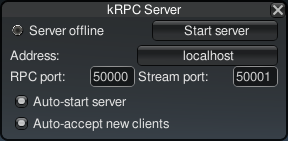
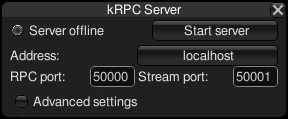
Add documentation for server performance options

diff --git a/doc/src/internals.rst b/doc/src/internals.rst
@@ -1,0 +1,41 @@
+.. _internals:
+
+Internals of kRPC
+=================
+
+.. _server-performance-settings:
+
+Server Performance Settings
+---------------------------
+
+kRPC receives RPCs, execute them and returns results when the mod's
+``FixedUpdate`` method is invoked. kRPC may execute multiple RPCs within a
+single call to ``FixedUpdate`` and this behaviour is controlled by several
+configurable settings:
+
+.. figure:: /images/getting-started/server-window-advanced.png
+   :align: right
+
+   Server window showing the advanced settings.
+
+1. **Auto-start server**: When enabled, the server will start automatically when
+   the game loads.
+2. **Auto-accept new clients**: When enabled, new client connections are
+   automatically allowed. When disabled, a pop-up is displayed asking whether
+   the new client connection should be allowed.
+3. **One RPC per update**: When enabled, the server will execute at most one RPC
+   per client per update.
+4. **Maximum time per update**: This is the maximum number of nanoseconds that
+   the server will spend processing RPCs in the call to FixedUpdte. This is used
+   to limit the time taken by the server per frame. A high value, for example
+   20000 ns, will allow the server to process many RPCs at the expense of the
+   game's framerate. A low value, for example 1000 ns, won't allow the server to
+   execute many RPCs per update, but will allow the game to run at a much higher
+   framerate.
+5. **Adaptive rate control**: If enabled, the server will automatically adjust
+   the maximum time per update parameter, so that the game runs at a minimum of
+   60 FPS.
+6. **Blocking receives**: If enabled, when the server checks for new RPCs from
+   clients, it will wait for a up to a fixed amount of time.
+7. **Receive timeout**: When blocking receives are enabled, this is the maximum
+   amount of time the server will wait for a new RPC from a client.

diff --git a/doc/src/getting-started.rst b/doc/src/getting-started.rst
@@ -52,11 +52,18 @@ configuration options are:
 2. **RPC and Stream port numbers**: These need to be set to port numbers that
    are available on your machine. In most cases, they can just be left as the
    default.
-3. **Auto-accept new clients**: When enabled, new client connections are
+
+There are also several advanced, which are hidden by default, but can be
+revealed by checking the 'Advanced settings' box:
+
+1. **Auto-start server**: When enabled, the server will start automatically when
+   the game loads.
+2. **Auto-accept new clients**: When enabled, new client connections are
    automatically allowed. When disabled, a pop-up is displayed asking whether
    the new client connection should be allowed.
-4. **Auto-start server**: When enabled, the server will start automatically when
-   the game loads.
+
+The other advanced settings control the performance of the server. For details,
+:ref:`see here <server-performance-settings>`.
 
 The Python Client
 -----------------

diff --git a/doc/src/index.rst b/doc/src/index.rst
@@ -23,5 +23,6 @@ machine you like.
    compiling
    extending
    communication-protocol
+   internals
 
 :ref:`genindex`
